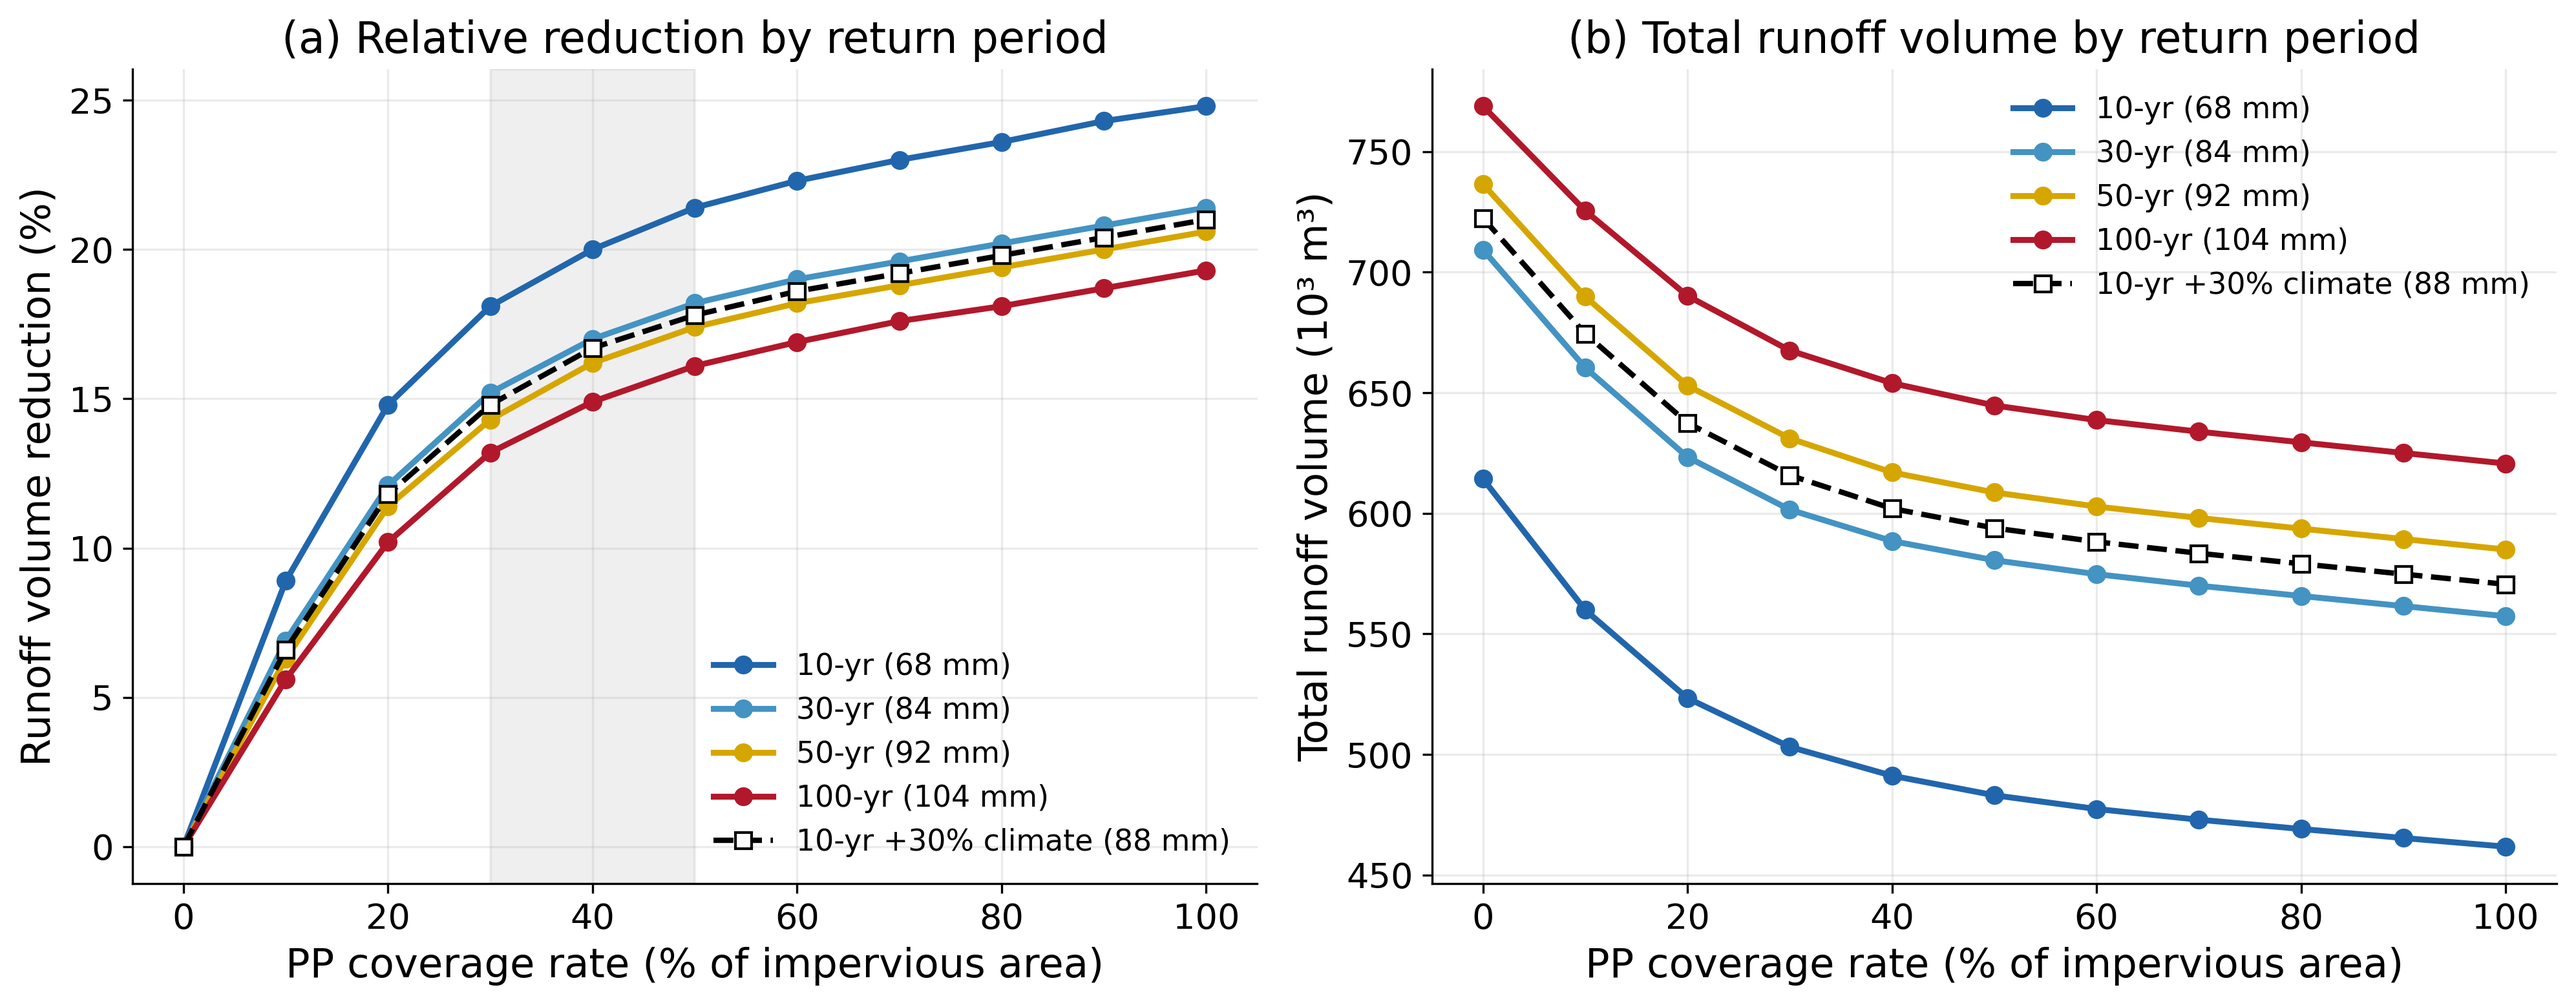
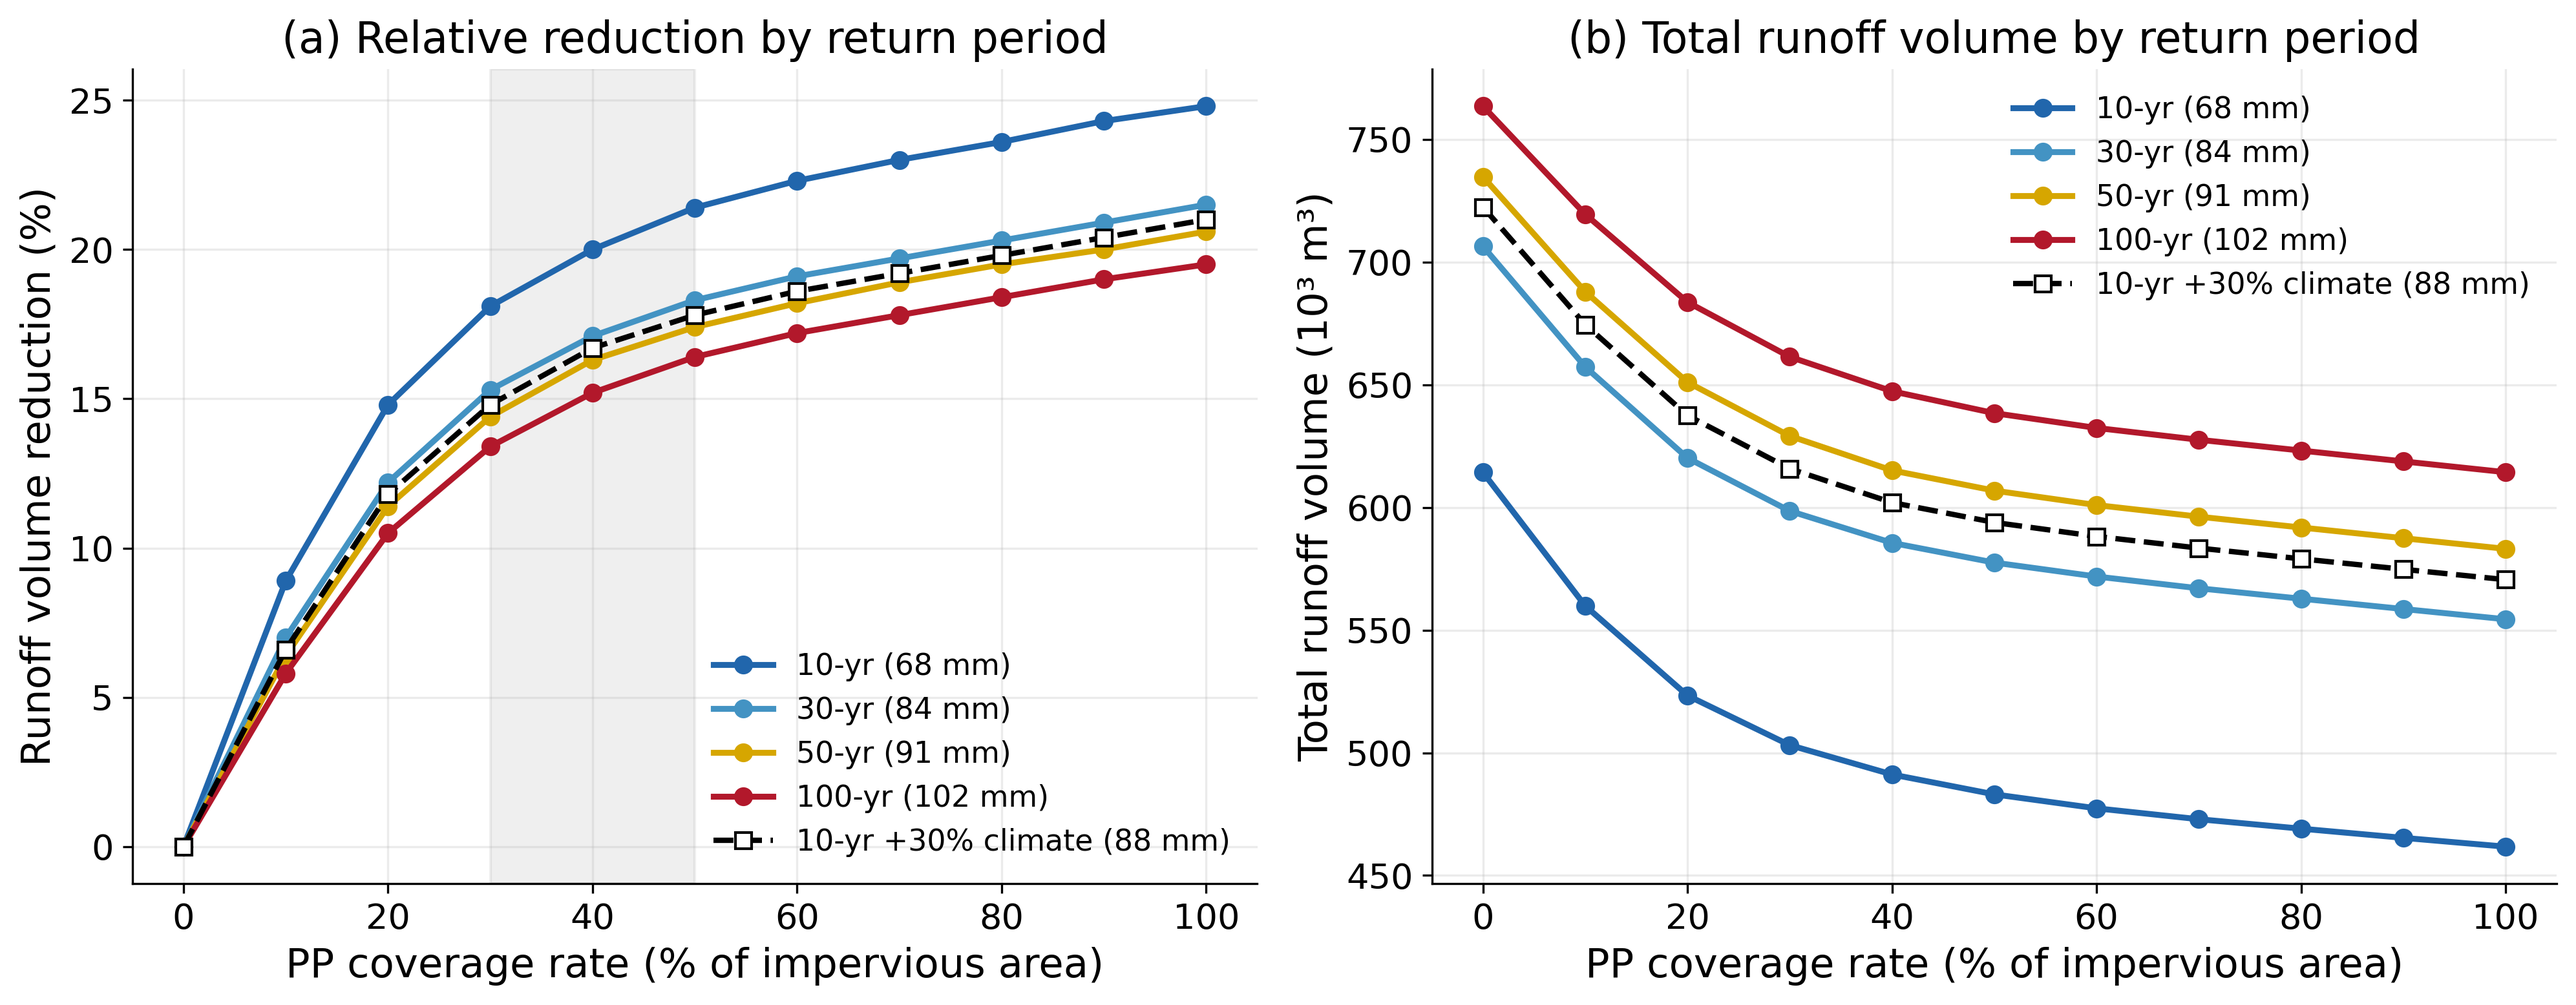
Use official KICT 2019 Seoul design-rainfall depths in return-period analysis
Replace approximate growth factors with the official KICT (2019) 60-min
probability-rainfall depths (30-yr 83.8, 50-yr 91.4, 100-yr 101.7 mm).
Updates script 17, return-period results, and Figure 15.

diff --git a/scripts/17_multi_return_period.py b/scripts/17_multi_return_period.py
@@ -3,22 +3,20 @@
 Multi-return-period sensitivity (Reviewer #1-1, #2-1: "multiple return periods").
 
 Re-runs the baseline + uniform PP coverage sweep (0-100%) for four design-storm
-return periods. Return-period depths are obtained by applying frequency growth
-factors to the 10-year 60-min Huff 4th-quartile storm (67.6 mm; KICT 2019),
-preserving the temporal (Huff) pattern:
+return periods. Return-period depths are the official KICT (2019) Seoul 60-min
+probability-rainfall values, applied to the Huff 4th-quartile temporal pattern:
 
-    Return period   Growth factor   60-min depth (mm)
-    10-yr           1.00            67.6   (base, present design)
-    30-yr           1.25            84.5
-    50-yr           1.36            91.9
-    100-yr          1.54           104.1
+    Return period   60-min depth (mm)   Growth factor (depth / 10-yr)
+    10-yr           67.6   (base)       1.000
+    30-yr           83.8                1.240
+    50-yr           91.4                1.352
+    100-yr          101.7               1.504
 
-The growth factors are documented as approximate frequency ratios relative to
-the 10-year event (to be reconciled with the official KICT 2019 / KMA
-probability-rainfall values); absolute depths are therefore approximate.
+(For reference, KICT 2019 also gives the 20-yr 60-min depth as 77.8 mm.)
 
-Scaling is applied by multiplying the SWMM TS_RAIN intensity ordinates (the
-rain-gauge SCF field is the snow-catch factor and does NOT scale rainfall).
+Each storm is generated by scaling the 10-year TS_RAIN intensity ordinates by
+depth / 67.6 (the rain-gauge SCF field is the snow-catch factor and does NOT
+scale rainfall, so the time series itself is scaled).
 
 Output: results/simulation_results_return_periods.csv
 """
@@ -36,12 +34,12 @@ OUTPUT_CSV = os.path.join(BASE_DIR, 'results/simulation_results_return_periods.c
 
 os.makedirs(SCEN_DIR, exist_ok=True)
 
-# Return period -> frequency growth factor relative to the 10-yr event
-RETURN_PERIODS = {
-    10:  1.00,
-    30:  1.25,
-    50:  1.36,
-    100: 1.54,
+# Return period -> official KICT (2019) Seoul 60-min probability-rainfall depth (mm)
+RETURN_PERIOD_DEPTH_MM = {
+    10:  67.6,
+    30:  83.8,
+    50:  91.4,
+    100: 101.7,
 }
 BASE_DEPTH_MM = 67.6
 
@@ -123,8 +121,8 @@ print("=" * 72)
 print("Multi-return-period sweep")
 print("=" * 72)
 
-for rp, factor in RETURN_PERIODS.items():
-    depth = BASE_DEPTH_MM * factor
+for rp, depth in RETURN_PERIOD_DEPTH_MM.items():
+    factor = depth / BASE_DEPTH_MM
     scaled_base = make_scaled_base(BASE_INP, factor)
     print(f"\n--- {rp}-yr  (x{factor:.2f}, {depth:.1f} mm) ---")
     rp_results = []
